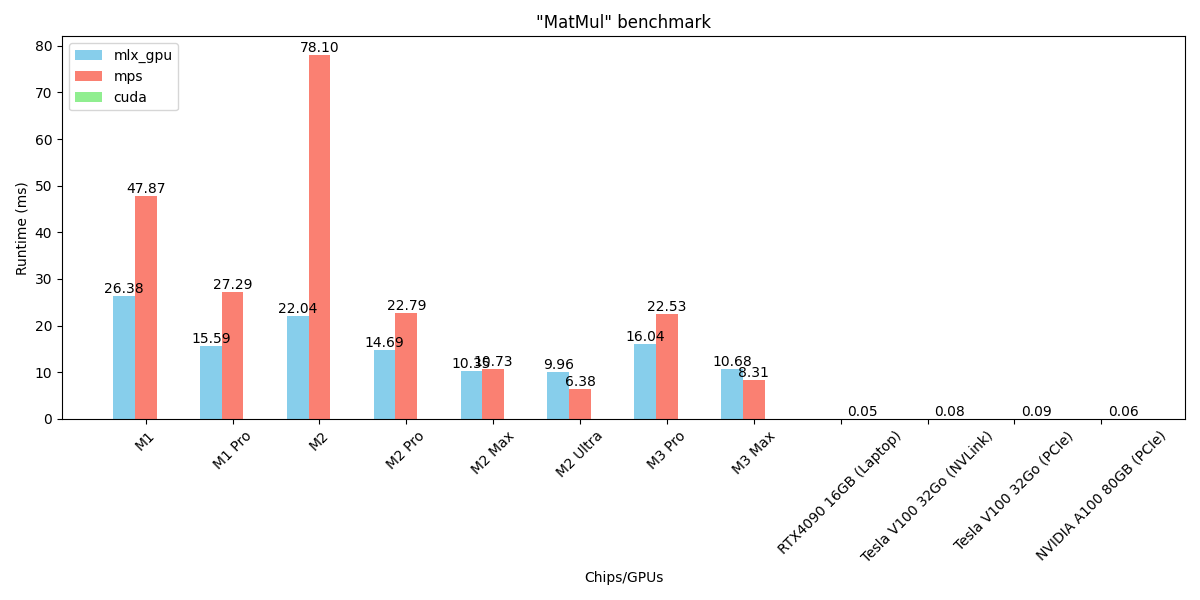
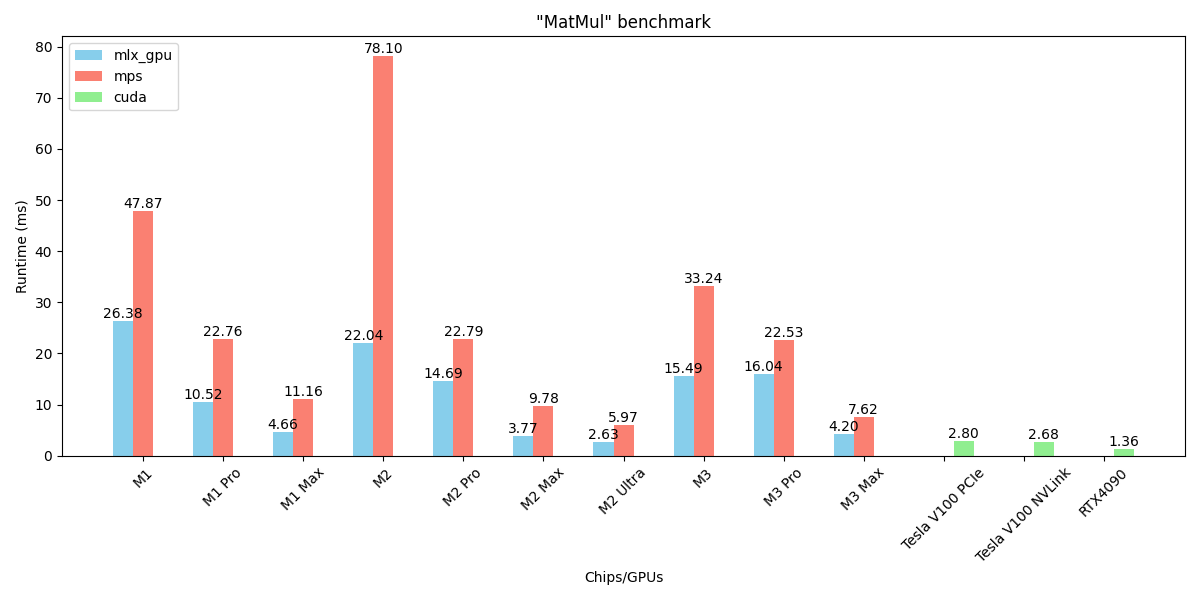
Fix cuda benchmark images (#26)
* 🐛 add missing version for M3

* fix viz

* update images with fixed cuda benchmarks

diff --git a/mlx_benchmark/get_cpu_gpu_config.py b/mlx_benchmark/get_cpu_gpu_config.py
@@ -37,7 +37,8 @@ def get_system_info():
     ram = ram_match.group(1).strip() if ram_match else "Unknown RAM"
     ram = ram.split(" ")[0]
 
-    formatted_output = f"{chipset_model}: ({efficiency_cores}E+{performance_cores}P+{gpu_cores}GPU+{ram}GB)"
+    chipset_model = chipset_model.split("Apple")[-1]
+    formatted_output = f"{chipset_model} ({efficiency_cores}E+{performance_cores}P+{gpu_cores}GPU+{ram}GB)"
     return formatted_output
 
 

diff --git a/mlx_benchmark/run_viz.py b/mlx_benchmark/run_viz.py
@@ -54,7 +54,7 @@ def plot(file_content, operation):
         dataframes.append(df)
 
     # Extracting table titles and operation values for each table
-    title_pattern = r"\*\*(.*?)\*\*"
+    title_pattern = r"\*\*(.*?)\s*\("
     titles = re.findall(title_pattern, file_content)
 
     # Preparing data for the visualization

diff --git a/benchmarks/detailed_benchmark.md b/benchmarks/detailed_benchmark.md
@@ -78,7 +78,7 @@ Detailed runtime benchmark of mlx operations, measured in `milliseconds`.
 | SumAll / dim=1000000x128                        |   9.13 |   9.22 |   9.89 |   9.34 |     +8% |     +0% |
 | SumAll / dim=128x1000000                        |   8.95 |   9.28 |   9.46 |   9.18 |     +5% |     +3% |
 
-**Apple M1 Pro: (2E+8P+16GPU+16GB) - mlx: 0.5.0**
+**M1 Pro (2E+8P+16GPU+16GB) - mlx: 0.5.0**
 
 | Operation                                           | mlx_gpu | mlx_gpu_compile | mlx_cpu | mps | cpu | mlx_gpu_compile/mlx_gpu speedup | mlx_gpu/mps speedup | mlx_gpu/mlx_cpu speedup |
 |-----------------------------------------------------|-------|---------------|-------|------|------|-------------------------------|-------------------|-----------------------|
@@ -168,7 +168,7 @@ Detailed runtime benchmark of mlx operations, measured in `milliseconds`.
 | SumAll / dim=1000000x128                        |   3.24 |   3.26 |   9.32 |   3.13 |   4.51 |      0% |     -3% |   +188% |
 | SumAll / dim=128x1000000                        |   3.21 |   3.30 |   8.77 |   3.08 |   4.56 |     -2% |     -3% |   +173% |
 
-**M1 Max 64GB** mlx 0.2.0
+**M1 Max (64GB)** mlx 0.2.0
 
 | Operation                                           | mlx_gpu | mlx_gpu_compile | mlx_cpu | mps | cpu | mlx_gpu_compile/mlx_gpu speedup | mlx_gpu/mps speedup | mlx_gpu/mlx_cpu speedup |
 |-----------------------------------------------------|-------|---------------|-------|------|------|-------------------------------|-------------------|-----------------------|
@@ -258,7 +258,7 @@ Detailed runtime benchmark of mlx operations, measured in `milliseconds`.
 | SumAll / dim=1000000x128                        |   1.68 |   1.67 |   8.68 |   1.93 |   4.47 |     +1% |    +14% |   +415% |
 | SumAll / dim=128x1000000                        |   1.68 |   1.67 |   8.95 |   1.87 |   4.35 |     +0% |    +11% |   +434% |
 
-**M2**
+**M2 () - mlx 0.2.0**
 
 | Operation                                           | mlx_gpu | mlx_cpu | mps | cpu | mlx_gpu/mps speedup | mlx_gpu/mlx_cpu speedup |
 |-----------------------------------------------------|-------|-------|------|------|-------------------|-----------------------|
@@ -389,72 +389,6 @@ Detailed runtime benchmark of mlx operations, measured in `milliseconds`.
 | SumAll / dim=1000000                            |   0.70 |   0.06 |   0.70 |   0.14 |      0% |    -90% |
 | SumAll / dim=1000000x128                        |   3.10 |   8.59 |   3.54 |   4.60 |    +14% |   +177% |
 | SumAll / dim=128x1000000                        |   3.16 |   8.64 |   3.53 |   4.49 |    +11% |   +173% |
-
-**M2 Max (cores: 4E+8P+38GPU)**
-
-| Operation                                           | mlx_gpu | mlx_cpu | mps | cpu | mlx_gpu/mps speedup | mlx_gpu/mlx_cpu speedup |
-|-----------------------------------------------------|-------|-------|------|------|-------------------|-----------------------|
-| Argmax / dim=64x1024x128 axi=0                  |   0.96 |  19.74 |   1.59 |  21.86 |    +64% |  +1951% |
-| Argmax / dim=64x1024x128 axi=1                  |   0.95 |   9.53 |   1.24 |   4.13 |    +30% |   +902% |
-| Argmax / dim=64x1024x128 axi=2                  |   0.79 |   7.47 |   1.24 |   1.70 |    +56% |   +845% |
-| Argmax / dim=64x128x1024 axi=2                  |   0.79 |   9.16 |   1.10 |   1.39 |    +39% |  +1055% |
-| BCE / dim=1000000 dim=1000000                   |   0.84 |   6.87 |   1.07 |   1.09 |    +28% |   +719% |
-| BCE / dim=100000x32 dim=100000x32               |   1.06 |  19.99 |   2.84 |   2.73 |   +168% |  +1785% |
-| BCE / dim=100000x64x2 dim=100000x64x2           |   1.63 |  78.65 |  11.70 |  10.60 |   +618% |  +4733% |
-| BCE / dim=128x100000 dim=128x100000             |   1.73 |  79.53 |  11.62 |  10.64 |   +570% |  +4491% |
-| Concat / dim=1000000x64 dim=1000000x32 axi=1    |   2.34 |  56.87 |   2.95 |  17.39 |    +26% |  +2335% |
-| Concat / dim=1000000x64 dim=1000000x128 axi=1   |   4.40 | 131.50 |   5.15 |  40.52 |    +17% |  +2887% |
-| Concat / dim=1000000x64 dim=1000000x64 axi=0    |   3.00 |  76.65 |   3.78 |  18.15 |    +25% |  +2452% |
-| Concat / dim=64x1000000 dim=64x1000000 axi=0    |   3.03 |  96.23 |   3.58 |  18.10 |    +18% |  +3073% |
-| Conv1d / dim=100x256x3 dim=8x3x3                |   0.71 |   0.35 |   0.81 |   2.31 |    +14% |    -50% |
-| Conv1d / dim=100x256x256 dim=8x3x256            |   2.05 |   7.89 |   1.80 |  65.20 |    -11% |   +285% |
-| Conv1d / dim=16x1000x80 dim=128x11x80           |   2.72 |   4.11 |   2.45 | 470.47 |    -10% |    +50% |
-| Conv1d / dim=16x1000x3 dim=128x11x3             |  10.05 |   0.59 |   0.90 |  52.53 |    -91% |    -94% |
-| Conv2d / dim=100x256x256x3 dim=8x3x3x3          |  15.25 | 857.17 |   3.82 | 116.44 |    -74% |  +5519% |
-| Conv2d / dim=10x256x256x12 dim=8x3x3x12         |   6.40 | 370.56 |   2.73 |  17.94 |    -57% |  +5689% |
-| Conv2d / dim=1x256x256x128 dim=8x3x3x128        |   6.75 | 622.48 |   2.74 |  37.98 |    -59% |  +9123% |
-| Conv2d / dim=100x28x28x3 dim=8x3x3x3            |   0.98 |   9.74 |   0.88 |   1.33 |    -10% |   +897% |
-| Conv2d / dim=1000x28x28x3 dim=8x3x3x3           |   5.01 |  98.69 |   1.80 |   7.38 |    -64% |  +1870% |
-| LeakyReLU / dim=128x16x1024                     |   0.84 |   0.93 |   0.76 |   1.12 |     -8% |    +11% |
-| LeakyReLU / dim=64x128x1024                     |   0.95 |   2.62 |   1.12 |   0.60 |    +18% |   +176% |
-| Linear / dim=100x1024x32 dim=32x1024 dim=1024   |   5.10 |  42.76 |   4.18 |  39.49 |    -17% |   +738% |
-| Linear / dim=100x1024x64 dim=64x1024 dim=1024   |   4.90 |  45.12 |   6.12 |  50.30 |    +24% |   +820% |
-| Linear / dim=100x1024x256 dim=256x1024 dim=1024 |   7.93 |  59.64 |  19.33 |  97.15 |   +143% |   +652% |
-| Linear / dim=100x1024x512 dim=512x1024 dim=1024 |  12.49 |  79.32 |  37.50 | 189.29 |   +200% |   +534% |
-| Linear / dim=100x1x51200 dim=51200x1 dim=1      |   1.22 |   0.32 |   1.16 |   0.68 |     -5% |    -74% |
-| MatMul / dim=32x1x1000 dim=32x1000x128          |   0.67 |   0.29 |   0.94 |   0.73 |    +41% |    -55% |
-| MatMul / dim=1000x64x256 dim=256x32             |   0.43 |   1.76 |   3.19 |  25.90 |   +642% |   +310% |
-| MatMul / dim=1000x64x1024 dim=1000x1024x32      |   1.41 |  14.42 |   7.78 | 667.52 |   +450% |   +920% |
-| MatMul / dim=1000x1024x64 dim=1000x64x256       |   4.40 |  77.69 |   6.27 | 1895.84 |    +42% |  +1664% |
-| MatMul / dim=64x1000000 dim=1000000x32          |  40.15 |   9.05 |  10.97 | 163.00 |    -72% |    -77% |
-| MatMul / dim=1000000x64 dim=64x1024             |  15.02 | 150.79 |  35.25 | 1525.49 |   +134% |   +903% |
-| PReLU / dim=128x16x1024 dim=1                   |   0.90 |   1.95 |   0.75 |   1.19 |    -16% |   +116% |
-| PReLU / dim=64x128x1024 dim=1                   |   1.57 |   4.34 |   1.20 |   0.57 |    -23% |   +176% |
-| ReLU / dim=128x16x1024                          |   0.81 |   0.47 |   0.78 |   1.31 |     -3% |    -41% |
-| ReLU / dim=64x128x1024                          |   0.61 |   1.05 |   1.10 |   0.57 |    +79% |    +71% |
-| SeLU / dim=128x16x1024                          |   1.47 |   5.58 |   0.83 |   2.05 |    -43% |   +279% |
-| SeLU / dim=64x128x1024                          |   2.35 |  18.42 |   1.17 |   6.97 |    -50% |   +683% |
-| Sigmoid / dim=128x16x1024                       |   0.54 |  12.64 |   0.50 |   1.94 |     -6% |  +2238% |
-| Sigmoid / dim=64x128x1024                       |   0.41 |  49.49 |   0.98 |   6.99 |   +142% | +12116% |
-| Softmax / dim=64x1000000 axi=-1                 |   2.35 |  33.88 |   4.05 |  27.56 |    +72% |  +1341% |
-| Softmax / dim=1000000x64 axi=-1                 |   2.25 |  32.44 |   5.53 |  28.25 |   +145% |  +1341% |
-| Softmax / dim=64x16x32x1024 axi=-1              |   0.99 |  16.97 |   6.91 |  15.33 |   +599% |  +1617% |
-| Softmax / dim=128x16x32x1024 axi=-1             |   1.71 |  33.61 |  15.73 |  27.19 |   +821% |  +1868% |
-| Softmax / dim=1024x16x32x128 axi=-1             |   1.72 |  32.31 |   6.26 |  27.34 |   +264% |  +1778% |
-| Softmax / dim=1024x64x32x8 axi=-1               |   5.34 |  81.44 |   2.36 |  17.73 |    -55% |  +1424% |
-| Softplus / dim=128x16x1024                      |   0.42 |  12.65 |   0.59 |   2.71 |    +41% |  +2943% |
-| Softplus / dim=64x128x1024                      |   0.45 |  50.08 |   1.07 |   9.92 |   +137% | +10979% |
-| Sort / dim=64x128x1024 axi=0                    |   6.74 | 914.48 |  11.56 |  41.90 |    +71% | +13469% |
-| Sort / dim=64x128x1024 axi=1                    |   3.63 | 937.31 |  12.57 |  37.46 |   +246% | +25707% |
-| Sort / dim=64x128x1024 axi=2                    |   0.88 | 245.80 |   8.83 |  44.32 |   +908% | +27959% |
-| Sum / dim=64x128x128x128 axi=0                  |   1.72 |  15.13 |   1.96 |  15.38 |    +14% |   +782% |
-| Sum / dim=64x128x128x128 axi=1                  |   1.70 |  11.54 |   2.30 |  12.89 |    +35% |   +580% |
-| Sum / dim=64x128x128x128 axi=2                  |   1.66 |  10.31 |   2.35 |   8.08 |    +41% |   +519% |
-| Sum / dim=64x128x128x128 axi=3                  |   3.28 |   9.24 |   3.78 |   5.26 |    +15% |   +181% |
-| SumAll / dim=64x128x128x128                     |   1.71 |   9.17 |   2.26 |   4.66 |    +32% |   +434% |
-| SumAll / dim=1000000                            |   0.66 |   0.06 |   0.74 |   0.11 |    +12% |    -90% |
-| SumAll / dim=1000000x128                        |   1.62 |   8.57 |   2.42 |   4.55 |    +49% |   +429% |
-| SumAll / dim=128x1000000                        |   1.63 |   8.61 |   2.34 |   4.60 |    +43% |   +427% |
 
 **M2 Max (cores: 4E+8P+38GPU)** mlx 0.5.0 torch 2.2.1
 
@@ -859,7 +793,7 @@ Detailed runtime benchmark of mlx operations, measured in `milliseconds`.
 
 ## CUDA GPUs
 
-**Tesla V100 32Go (PCIe) / Intel Xeon Gold 5120 14 cores, 28 threads @ 2.2GHz (Skylake), 60Go**
+**Tesla V100 PCIe (32Go / Intel Xeon Gold 5120 14 cores, 28 threads @ 2.2GHz (Skylake), 60Go)**
 
 | Operation                                           | cpu | cuda | cuda/cpu speedup |
 |-----------------------------------------------------|------|------|----------------|
@@ -949,7 +883,7 @@ Detailed runtime benchmark of mlx operations, measured in `milliseconds`.
 | SumAll / dim=1000000x128                        |  39.07 |   0.65 |  +5878% |
 | SumAll / dim=128x1000000                        |  39.02 |   0.65 |  +5859% |
 
-**Tesla V100 32Go (NVLink) / Intel Xeon Gold 6148 20 cores, 40 threads @ 2.4 GHz (Skylake), 60Go**
+**Tesla V100 NVLink (32Go / Intel Xeon Gold 6148 20 cores, 40 threads @ 2.4 GHz (Skylake), 60Go)**
 
 | Operation                                           | cpu | cuda | cuda/cpu speedup |
 |-----------------------------------------------------|------|------|----------------|
@@ -1039,7 +973,7 @@ Detailed runtime benchmark of mlx operations, measured in `milliseconds`.
 | SumAll / dim=1000000x128                        |  40.79 |   0.65 |  +6190% |
 | SumAll / dim=128x1000000                        |  40.77 |   0.65 |  +6189% |
 
-**RTX4090 (Desktop) / 10th Gen Intel Core i9-10940X @ 3.30GHz 128GB**
+**RTX4090 ((Desktop) / 10th Gen Intel Core i9-10940X @ 3.30GHz 128GB)**
 
 | Operation                                           | cpu | cuda | cuda/cpu speedup |
 |-----------------------------------------------------|------|------|----------------|

diff --git a/benchmarks/average_benchmark.md b/benchmarks/average_benchmark.md
@@ -34,7 +34,7 @@ Averaged runtime benchmark of mlx operations, measured in `milliseconds`.
 | Sum        |  11.33 |  12.70 |  16.35 |  13.43 |    +44% |    +12% |
 | SumAll     |   6.91 |   6.85 |   7.40 |   7.00 |     +7% |      0% |
 
-**Apple M1 Pro: (2E+8P+16GPU+16GB) - mlx: 0.5.0**
+**M1 Pro (2E+8P+16GPU+16GB) - mlx: 0.5.0**
 
 | Operation       | mlx_gpu | mlx_gpu_compile | mlx_cpu | mps | cpu | mlx_gpu_compile/mlx_gpu speedup | mlx_gpu/mps speedup | mlx_gpu/mlx_cpu speedup |
 |-----------------|-------|---------------|-------|------|------|-------------------------------|-------------------|-----------------------|
@@ -60,7 +60,7 @@ Averaged runtime benchmark of mlx operations, measured in `milliseconds`.
 | Sum         |   3.38 |   3.46 |   9.25 |   6.06 |  10.02 |     -2% |    +79% |   +173% |
 | SumAll      |   2.52 |   2.63 |   6.83 |   2.48 |   3.46 |     -4% |     -1% |   +171% |
 
-**M1 Max 64GB** mlx 0.2.0
+**M1 Max (64GB)** mlx 0.2.0
 
 | Operation       | mlx_gpu | mlx_gpu_compile | mlx_cpu | mps | cpu | mlx_gpu_compile/mlx_gpu speedup | mlx_gpu/mps speedup | mlx_gpu/mlx_cpu speedup |
 |-----------------|-------|---------------|-------|------|------|-------------------------------|-------------------|-----------------------|
@@ -86,7 +86,7 @@ Averaged runtime benchmark of mlx operations, measured in `milliseconds`.
 | Sum         |   1.75 |   1.74 |   8.87 |   3.10 |  10.35 |     +0% |    +77% |   +406% |
 | SumAll      |   1.36 |   1.34 |   6.63 |   1.50 |   3.36 |     +1% |    +10% |   +389% |
 
-**M2**
+**M2 () - mlx 0.2.0**
 
 | Operation      | mlx_gpu | mlx_cpu | mps | cpu | mlx_gpu/mps speedup | mlx_gpu/mlx_cpu speedup |
 |----------------|-------|-------|------|------|-------------------|-----------------------|
@@ -129,28 +129,6 @@ Averaged runtime benchmark of mlx operations, measured in `milliseconds`.
 | Sort       |   8.50 | 709.04 |  23.19 |  48.95 |   +173% |  +8245% |
 | Sum        |   4.05 |  11.55 |   4.27 |  10.36 |     +5% |   +184% |
 | SumAll     |   2.55 |   6.60 |   2.85 |   3.47 |    +11% |   +158% |
-
-**M2 Max (cores: 4E+8P+38GPU)**
-
-| Operation      | mlx_gpu | mlx_cpu | mps | cpu | mlx_gpu/mps speedup | mlx_gpu/mlx_cpu speedup |
-|----------------|-------|-------|------|------|-------------------|-----------------------|
-| Argmax     |   0.87 |  11.47 |   1.29 |   7.27 |    +47% |  +1213% |
-| BCE        |   1.31 |  46.26 |   6.81 |   6.27 |   +417% |  +3420% |
-| Concat     |   3.19 |  90.31 |   3.87 |  23.54 |    +21% |  +2728% |
-| Conv1d     |   3.88 |   3.24 |   1.49 | 147.63 |    -61% |    -16% |
-| Conv2d     |   6.88 | 391.73 |   2.39 |  36.21 |    -65% |  +5595% |
-| LeakyReLU  |   0.89 |   1.78 |   0.94 |   0.86 |     +5% |    +99% |
-| Linear     |   6.33 |  45.43 |  13.66 |  75.38 |   +115% |   +618% |
-| MatMul     |  10.35 |  42.33 |  10.73 | 713.08 |     +3% |   +309% |
-| PReLU      |   1.24 |   3.15 |   0.98 |   0.88 |    -21% |   +154% |
-| ReLU       |   0.71 |   0.76 |   0.94 |   0.94 |    +32% |     +7% |
-| SeLU       |   1.91 |  12.00 |   1.00 |   4.51 |    -47% |   +528% |
-| Sigmoid    |   0.47 |  31.06 |   0.74 |   4.46 |    +57% |  +6469% |
-| Softmax    |   2.39 |  38.44 |   6.81 |  23.90 |   +184% |  +1506% |
-| Softplus   |   0.43 |  31.37 |   0.83 |   6.31 |    +91% |  +7129% |
-| Sort       |   3.75 | 699.20 |  10.99 |  41.23 |   +193% | +18550% |
-| Sum        |   2.09 |  11.55 |   2.60 |  10.40 |    +24% |   +453% |
-| SumAll     |   1.41 |   6.60 |   1.94 |   3.48 |    +38% |   +369% |
 
 **M2 Max (cores: 4E+8P+38GPU)** mlx 0.5.0 torch 2.2.1
 
@@ -278,7 +256,7 @@ Averaged runtime benchmark of mlx operations, measured in `milliseconds`.
 
 ## CUDA GPUs
 
-**Tesla V100 32Go (PCIe) / Intel Xeon Gold 5120 14 cores / 28 threads @ 2.2GHz (Skylake), 60Go**
+**Tesla V100 PCIe (32Go / Intel Xeon Gold 5120 14 cores / 28 threads @ 2.2GHz (Skylake), 60Go)**
 
 | Operation       | cpu | cuda | cuda/cpu speedup |
 |-----------------|------|------|----------------|
@@ -304,7 +282,7 @@ Averaged runtime benchmark of mlx operations, measured in `milliseconds`.
 | Sum         |  67.43 |   0.70 |  +9472% |
 | SumAll      |  29.82 |   0.50 |  +5822% |
 
-**Tesla V100 32Go (NVLink) / Intel Xeon Gold 6148 20 cores, 40 threads @ 2.4 GHz (Skylake), 60Go**
+**Tesla V100 NVLink (32Go / Intel Xeon Gold 6148 20 cores, 40 threads @ 2.4 GHz (Skylake), 60Go)**
 
 | Operation       | cpu | cuda | cuda/cpu speedup |
 |-----------------|------|------|----------------|
@@ -330,7 +308,7 @@ Averaged runtime benchmark of mlx operations, measured in `milliseconds`.
 | Sum         |  69.38 |   0.70 |  +9861% |
 | SumAll      |  31.13 |   0.50 |  +6152% |
 
-**RTX4090 (Desktop) / 10th Gen Intel Core i9-10940X @ 3.30GHz 128GB**
+**RTX4090 ((Desktop) / 10th Gen Intel Core i9-10940X @ 3.30GHz 128GB)**
 
 | Operation       | cpu | cuda | cuda/cpu speedup |
 |-----------------|------|------|----------------|
